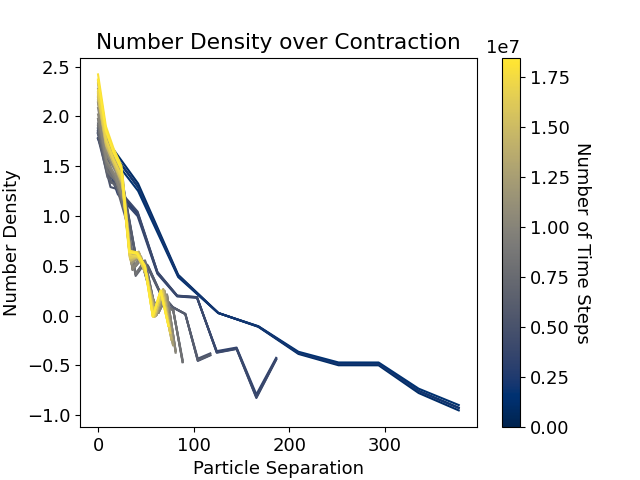
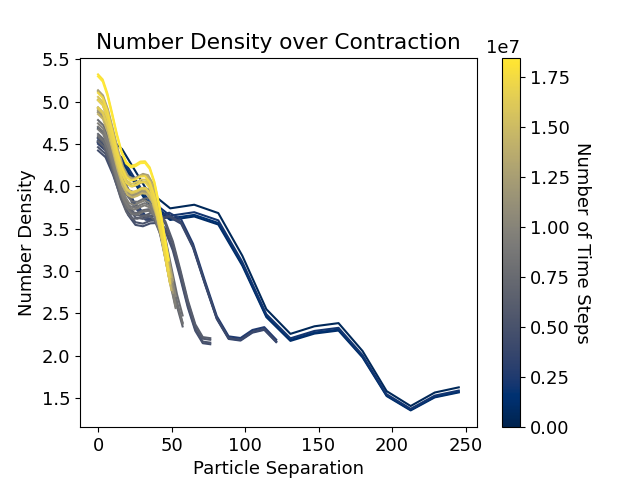
fft implementation in num density

diff --git a/Phase_Structure/Nunchucks/Fixed_Rigidity/number_density_FT.py b/Phase_Structure/Nunchucks/Fixed_Rigidity/number_density_FT.py
@@ -10,7 +10,7 @@ from phase_plot import vol_frac
 
 FILE_ROOT = "output_T_0.5_time_"  # two underscores to match typo in previous code
 SAMPLING_FREQ = 20  # only samples one in X files (must be integer)
-POSITION_BIN_NUM = 10  # number of bins for position dependance pair-wise correlation
+POSITION_BIN_NUM = 16  # number of bins for position dependance pair-wise correlation
 # For fourier transform, this is optimised if a power of 2
 
 # mol_length = 10  #uncomment on older datasets
@@ -81,7 +81,8 @@ print(
 
 
 def fourier_transform(data, k_vector, cell_num):
-    """Commutes the FT of a 1D array"""
+    """Computes the FT of a 1D array
+    Manual implementation for testing - fft algorithm much faster"""
     ft_data = np.zeros_like(data, dtype=np.complex)
     assert len(data) == cell_num, "Expected M points in data array"
 
@@ -108,6 +109,7 @@ def autocorrelation_func(pos_data, box_dim, cell_num, delta_m_list):
 
     density_data = np.zeros((cell_num, cell_num, cell_num))
 
+    # GENERATE NUMBER DENSITY ARRAY
     for pos in position_values:
         m_vector = pos // cell_dim  # integer steps from corner (origin) of region
         # This also acts as index for relevant cell in p(m)
@@ -128,7 +130,7 @@ def autocorrelation_func(pos_data, box_dim, cell_num, delta_m_list):
                     m_vector = pos // cell_dim  # redo previous calculations
                     density_data[tuple(m_vector.astype(int))] += 1
             if not problem_identified:
-                raise
+                raise  # I.e. error was not due to this suspected floating point issue
 
     correlation_data = np.zeros_like(delta_m_list, dtype=np.complex)
     for i, delta_m in enumerate(delta_m_list):
@@ -139,13 +141,17 @@ def autocorrelation_func(pos_data, box_dim, cell_num, delta_m_list):
             # this gives vector to centre of cell, not corner, and avoids /0 in next line
             k_vector = (2 * np.pi / cell_num) * np.reciprocal(centred_index)
 
-            ft_density = fourier_transform(density_data, k_vector, cell_num)
-            ave_density = np.mean(np.square(np.abs(ft_density)))  # , axis=(0, 1, 2))
+            # ft_density = fourier_transform(density_data, k_vector, cell_num)
+            ft_density = np.fft.fft(density_data)
+
+            ave_density = np.mean(np.square(np.abs(ft_density)))
             correlation_data[i] += ave_density * np.exp(
                 -2j * np.pi * np.dot(k_vector, delta_m_vector) / cell_num
             )
 
-    return np.real(correlation_data) / cell_num ** 3
+    return (
+        np.real(correlation_data) / cell_num ** 3
+    )  # IS IT CORRECT TO TAKE REAL PART HERE?
 
 
 # READ MOLECULE POSITIONS
@@ -216,7 +222,6 @@ for i, time in enumerate(time_range):  # interate over dump files
     colors = plt.cm.cividis(np.linspace(0, 1, tot_plot_num))
     if i == 0:
         continue  # don't plot this case
-    # print(delta_m_list * y_step, correlation_data)
     plt.plot(
         delta_m_list * y_step, correlation_data, color=colors[i],
     )
